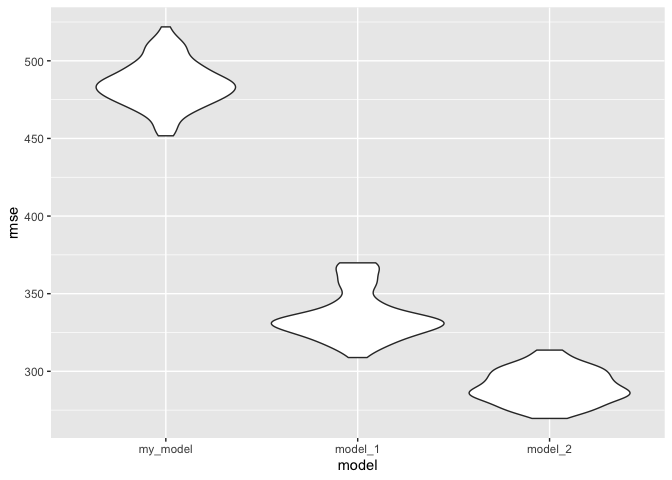
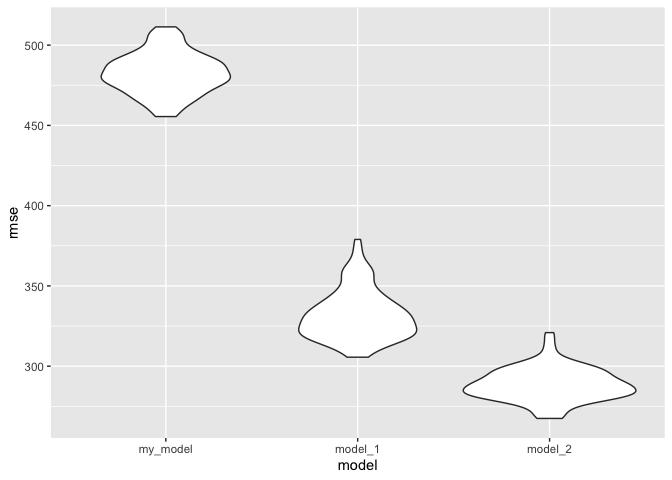
added descriptions for problem 1

diff --git a/p8105_hw6_lzs2109.md b/p8105_hw6_lzs2109.md
@@ -50,11 +50,21 @@ map(bweight_df, ~sum(is.na(.))) %>%
     ##   mheight momage mrace parity pnumlbw pnumsga ppbmi ppwt smoken wtgain
     ## 1       0      0     0      0       0       0     0    0      0      0
 
-There appear to be no missing values in the birthweight data set.
+There appear to be no missing values in the birth weight data set.
+$\\\\$ A possible regression model for birth weight may involve genetic
+factors attributable to the parents as indirect predictors of weight
+instead of direct predictors like the baby’s features (sex, length, head
+circumference, etc). As such, I’ll propose a model that uses the
+predictors delwt (mother’s weight at delivery), malform (presence of
+malformations that could affect weight), ppwt (mother’s pre-pregnancy
+weight), and ppbmi (mother’s pre-pregnancy BMI). Mother’s height might
+be useful to include, but we’ll stick with 4 predictors and try to
+maintain some parsimony. If father’s weight was available, that would
+probably be more interesting than, for example, mother’s BMI to explore.
 
 ``` r
 my_model = 
-  lm(bwt ~ delwt + ppwt + ppbmi + malform, data = bweight_df)
+  lm(bwt ~ delwt + malform + ppwt + ppbmi, data = bweight_df)
 
 bweight_df %>% 
   add_residuals(my_model) %>% 
@@ -65,6 +75,12 @@ bweight_df %>%
 ```
 
 ![](p8105_hw6_lzs2109_files/figure-gfm/unnamed-chunk-4-1.png)<!-- -->
+
+The fitted values versus residuals plot is already showing some
+questionable trends in my proposed model, with the residuals not being
+evenly distributed around 0. We can see that on the positive side the
+residuals top out around just above 1500, but approach 2500 on the
+negative end.
 
 ``` r
 lm(bwt ~ blength + gaweeks, data = bweight_df) %>% 
@@ -102,6 +118,9 @@ broom::tidy()
     ## 7 bhead:babysexfemale          -198.       51.1      -3.88  0.000105    
     ## 8 bhead:blength:babysexfemale     3.88      1.06      3.67  0.000245
 
+The above models are the ones that we will be comparing my proposed
+model to.
+
 ``` r
 cv_df = 
   crossv_mc(bweight_df, 100) %>% 
@@ -112,7 +131,7 @@ cv_df =
 cv_df = 
   cv_df %>% 
   mutate(
-    my_model  = map(train, ~lm(bwt ~ delwt + ppwt + ppbmi + malform, data = .x)),
+    my_model  = map(train, ~lm(bwt ~ delwt + malform + ppwt + ppbmi, data = .x)),
     model_1   = map(train, ~lm(bwt ~ blength + gaweeks, data = .x)),
     model_2   = map(train, ~lm(bwt ~ bhead + 
                                      blength + 
@@ -148,13 +167,28 @@ cv_df %>% head()
     ## # A tibble: 6 × 9
     ##   train                 test  .id   my_model model_1 model_2 rmse_my_model rmse_model_1
     ##   <list>                <lis> <chr> <list>   <list>  <list>          <dbl>        <dbl>
-    ## 1 <tibble [3,473 × 20]> <tib… 001   <lm>     <lm>    <lm>             480.         360.
-    ## 2 <tibble [3,473 × 20]> <tib… 002   <lm>     <lm>    <lm>             471.         319.
-    ## 3 <tibble [3,473 × 20]> <tib… 003   <lm>     <lm>    <lm>             483.         328.
-    ## 4 <tibble [3,473 × 20]> <tib… 004   <lm>     <lm>    <lm>             456.         326.
-    ## 5 <tibble [3,473 × 20]> <tib… 005   <lm>     <lm>    <lm>             478.         338.
-    ## 6 <tibble [3,473 × 20]> <tib… 006   <lm>     <lm>    <lm>             470.         342.
+    ## 1 <tibble [3,473 × 20]> <tib… 001   <lm>     <lm>    <lm>             488.         323.
+    ## 2 <tibble [3,473 × 20]> <tib… 002   <lm>     <lm>    <lm>             480.         341.
+    ## 3 <tibble [3,473 × 20]> <tib… 003   <lm>     <lm>    <lm>             485.         321.
+    ## 4 <tibble [3,473 × 20]> <tib… 004   <lm>     <lm>    <lm>             496.         337.
+    ## 5 <tibble [3,473 × 20]> <tib… 005   <lm>     <lm>    <lm>             474.         363.
+    ## 6 <tibble [3,473 × 20]> <tib… 006   <lm>     <lm>    <lm>             480.         316.
     ## # … with 1 more variable: rmse_model_2 <dbl>
+
+Clearly, from the plot of root mean squared errors from my proposed
+model compared to the two proposed in the homework, my proposed model
+isn’t great. The RMSE is largely between 450 and 500, while this error
+is reduced to between 300 and 375 for the first model, and between 275
+and 325 for the second model with the interaction terms. This does make
+sense being that the model I proposed used indirect measures that may or
+may not be related to and predictors of the baby’s weight, whereas the
+first model used the baby’s actual length and gestational age, which are
+more direct predictors of how much a baby weights. Obviously, the longer
+a baby is, the more they will weigh. The second model also used direct
+features of a baby such as their head circumference, weight, and sex, in
+addition to the interactions between these variables. We can assume that
+the larger a baby’s head is, the longer they are, and that the baby’s
+sex would be more direct predictors of the baby’s weight.
 
 ### Problem 2
 
@@ -243,4 +277,4 @@ weather_bootstraps %>%
     ## # A tibble: 1 × 2
     ##   ci_lower ci_upper
     ##      <dbl>    <dbl>
-    ## 1    0.854    0.893
+    ## 1    0.853    0.894
